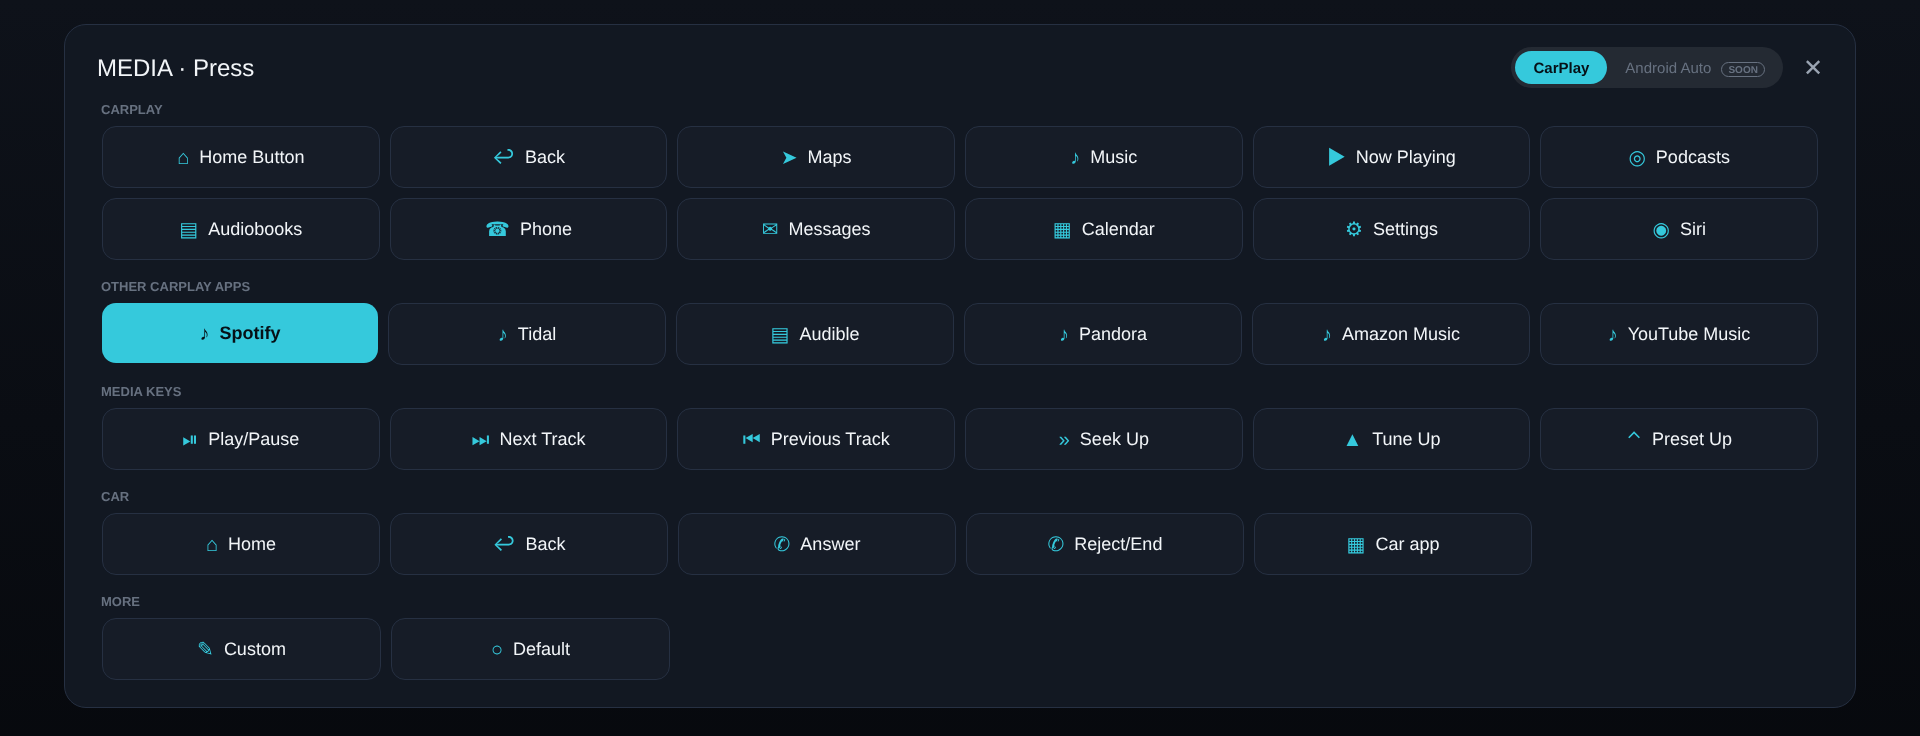
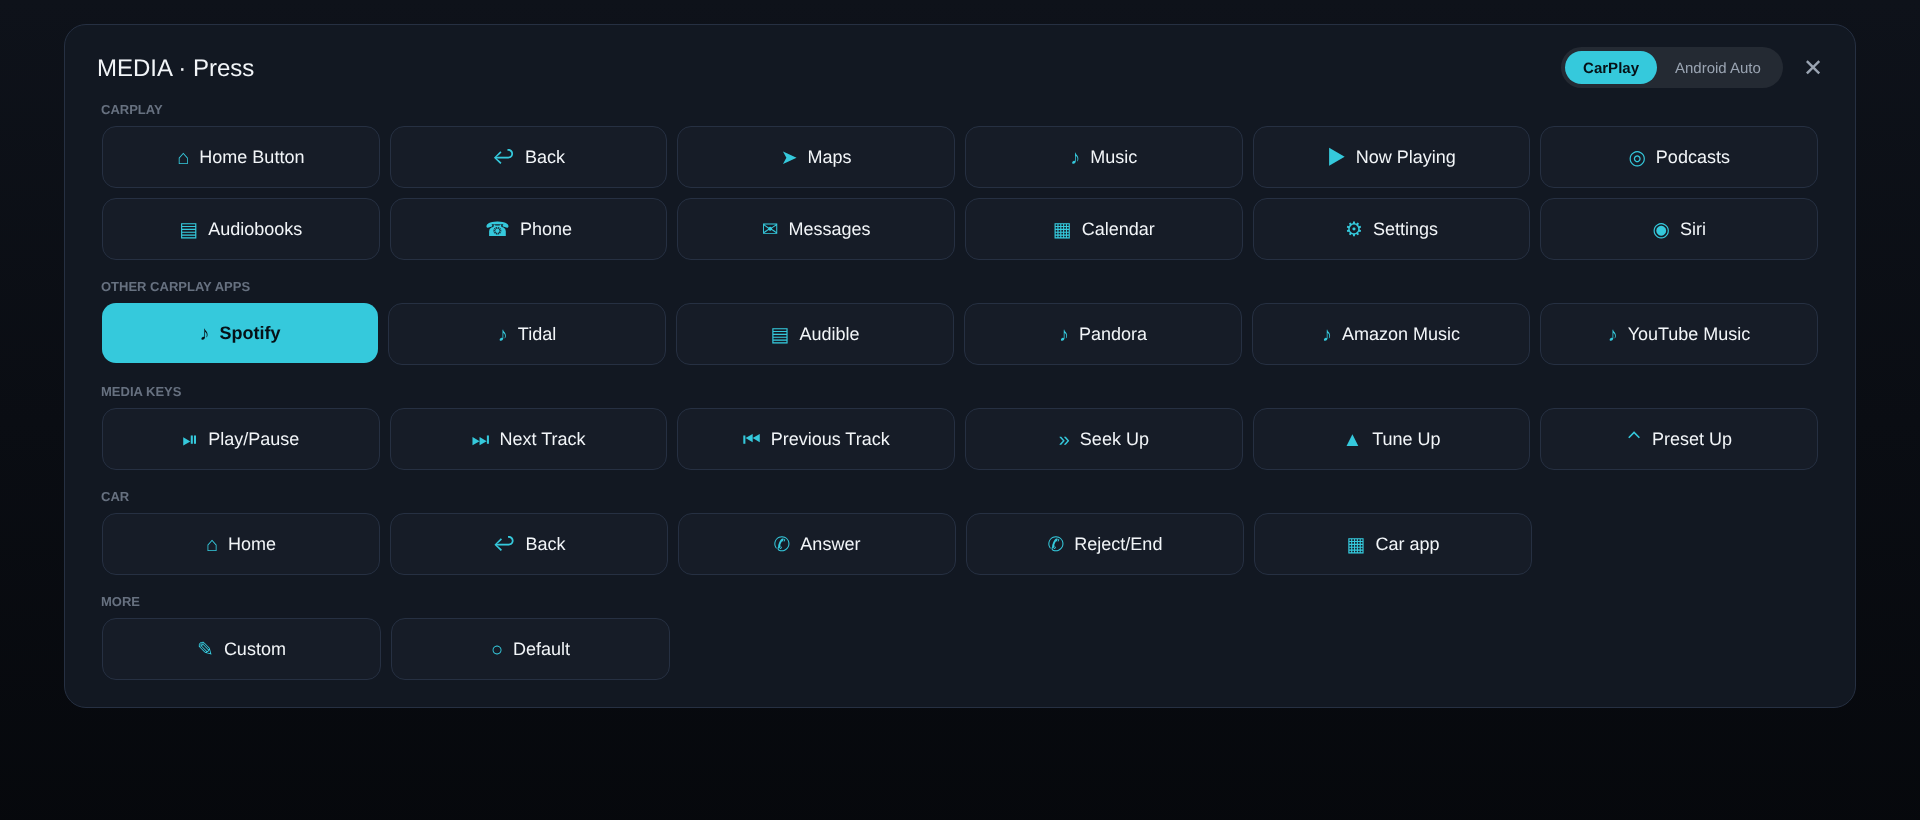
README: screenshots without SOON; Android Auto picker
Claude-Session: https://claude.ai/code/session_01Gdpso2rYSWVYo6vyYsrcbH

diff --git a/README.md b/README.md
@@ -120,6 +120,8 @@ Play and Pause can't be separate choices. When CarPlay connects, the car tells t
 | Assistant | Starts Google Assistant, as the steering wheel's voice button does |
 | Play/Pause, Play, Pause, Next Track, Previous Track | Android Auto's media keys |
 
+![The picker on the Android Auto side](docs/img/picker-android-auto.png)
+
 Screens (Home, Back, Navigation, Media, Phone, Assistant) bring Android Auto onto the screen first. On the Android Auto side, **Media keys** also has the car's Seek, Tune and Preset.
 
 **Car** (works without a phone):
